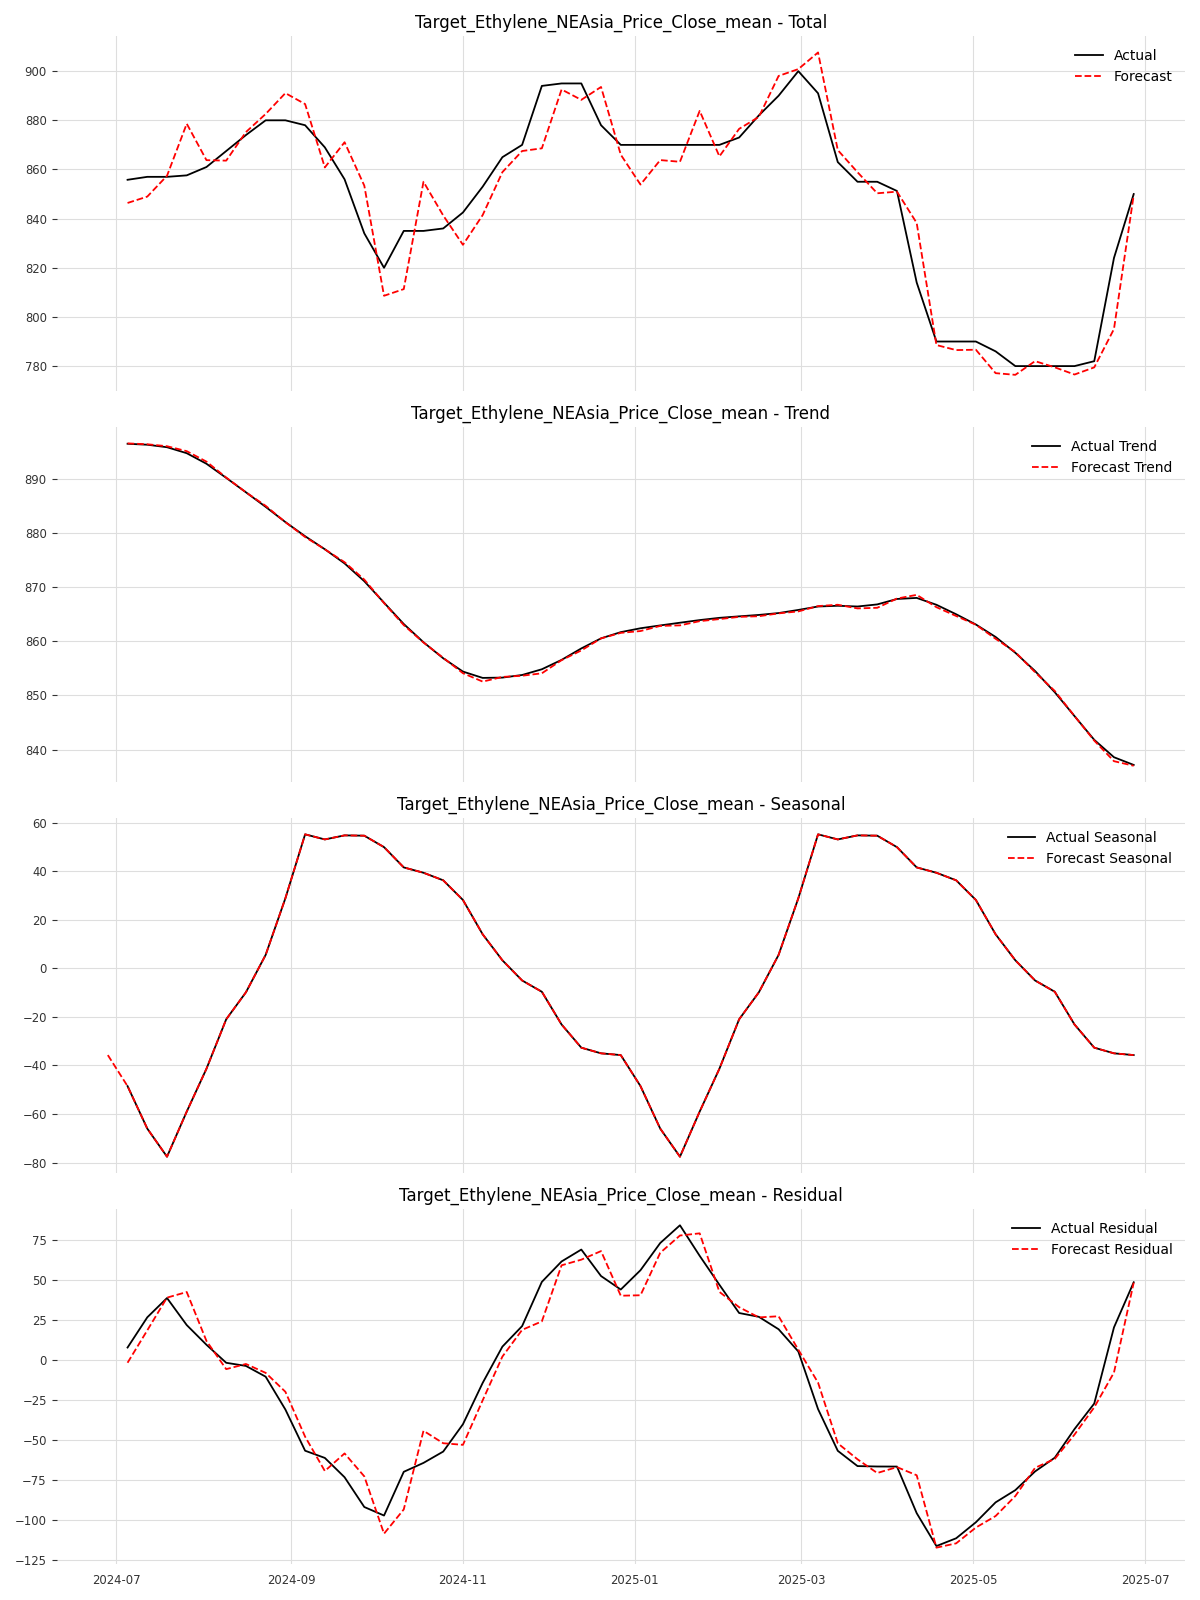
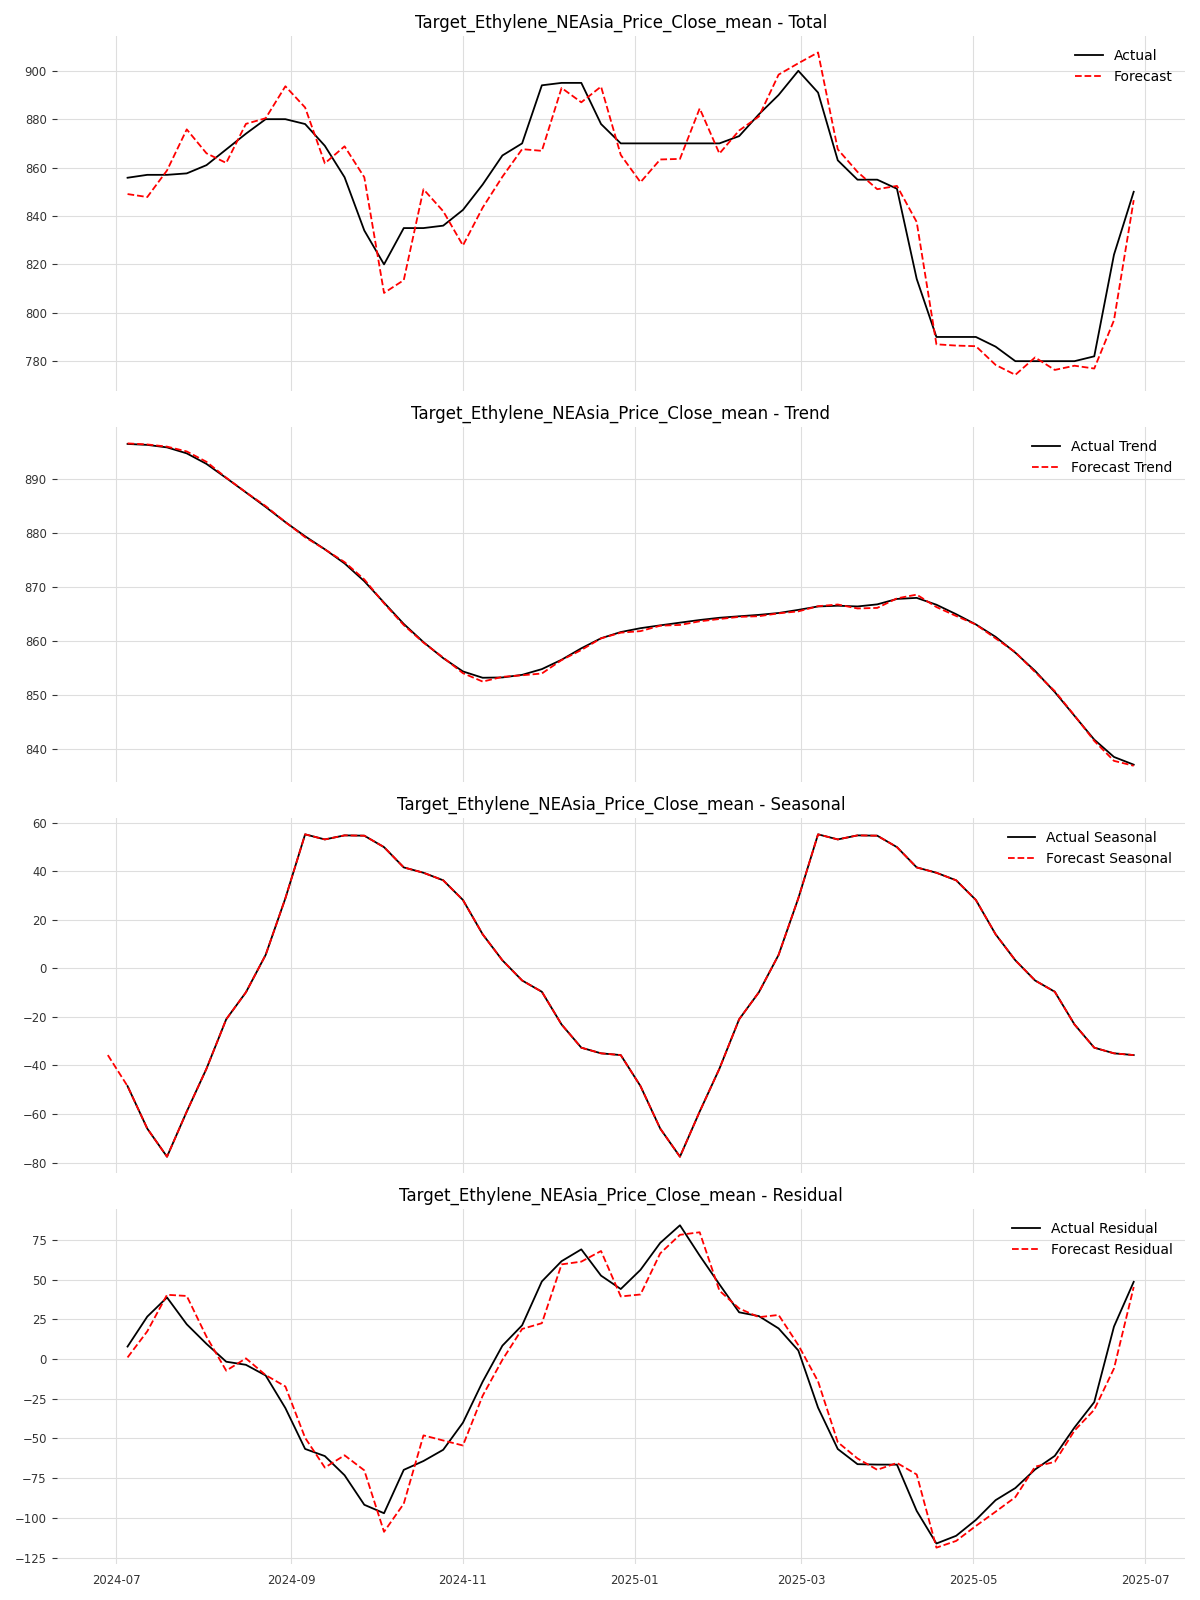
Revert to two steps before (best result of VARIMA)

diff --git a/varima_forecasting.py b/varima_forecasting.py
@@ -13,7 +13,7 @@ import seaborn as sns
 
 # Darts imports
 from darts import TimeSeries
-from darts.models import VARIMA, Theta, NaiveSeasonal
+from darts.models import VARIMA, NaiveSeasonal
 from darts.metrics import smape, mase, mae, mse, rmse
 from darts.dataprocessing.transformers import Scaler, Diff, MissingValuesFiller
 from darts.utils.statistics import check_seasonality
@@ -27,7 +27,7 @@ warnings.filterwarnings("ignore")
 # Constants
 DATA_DIR = Path("Price_Daily.csv")
 OUTPUT_DIR = Path("output/varima_run")
-TARGETS = ["Target_Ethylene_NEAsia_Price_Close", "Target_Naphtha_Price_Close", "Upstream_Crudeoil_WTI_Price_Close", "Upstream_Crudeoil_Brent_Price_Close", "Upstream_Crudeoil_Dubai_Price_Close"]
+TARGETS = ["Target_Naphtha_Price_Close", "Target_Ethylene_NEAsia_Price_Close"]
 DATE_RANGE = ["2021-02-05", "2025-06-30"]
 TEST_SPLIT_DATE = "2024-07-01"
 SEASONAL_PERIOD = 26
@@ -210,10 +210,14 @@ class ModelTraining:
         train_cov = diff_transformer.fit_transform(train_multi)
         full_cov = diff_transformer.transform(full_multi)
 
+        # Shift covariates
+        train_future_cov = train_cov.shift(1)
+        full_future_cov = full_cov.shift(1)
+
         # Fill missing values
         missing_filler = MissingValuesFiller(fill=0.0)
-        train_future_cov = missing_filler.transform(train_cov.shift(1))
-        full_future_cov = missing_filler.transform(full_cov.shift(1))
+        train_future_cov = missing_filler.transform(train_future_cov)
+        full_future_cov = missing_filler.transform(full_future_cov)
 
         # Align target and covariates to intersection (fixes start date mismatch due to shift/diff)
         train_multi = train_multi.slice_intersect(train_future_cov)
@@ -248,30 +252,6 @@ class ModelTraining:
         )
         
         return pred_multi
-        
-
-    @staticmethod
-    def forecast_trend(
-        series: pd.Series, 
-        train_split_date: Any
-    ) -> TimeSeries:
-        """
-        Fits a Theta model to extrapolate the trend. 
-        """
-        full_trend_ts = TimeSeries.from_series(series)
-        train_trend_ts = full_trend_ts.drop_after(train_split_date)
-        
-        # Theta(2) is equivalent to linear extrapolation
-        model = Theta(theta=2, season_mode=SeasonalityMode.NONE) 
-        
-        return model.historical_forecasts(
-            series=full_trend_ts,
-            start=len(train_trend_ts),
-            forecast_horizon=1,
-            stride=1,
-            retrain=True,
-            verbose=False
-        )
 
     @staticmethod
     def forecast_seasonal(
@@ -458,36 +438,42 @@ def run_varima_pipeline():
     
     # 3. Modeling & Forecasting
 
+    # Fit VARIMA models
+    res_pred_multi = ModelTraining.fit_and_pred_varima(
+        components, 
+        train_index=train_df.index, 
+        target_cols=targets,
+        comp_name='residual',
+        param_grid={
+            'p': [1, 2, 3],
+            'd': [0],
+            'q': [0, 1, 2],
+            'trend': ['n', 'c']
+        }
+    )
+
+    trend_pred_multi = ModelTraining.fit_and_pred_varima(
+        components, 
+        train_index=train_df.index, 
+        target_cols=targets,
+        comp_name='trend',
+        param_grid={
+            'p': [1, 2, 3],
+            'd': [1],
+            'q': [6, 7, 8],
+            'trend': ['c']
+        }
+    )
+
     # Reconstruct predictions
-    for i, target_cols in enumerate([targets[:2], targets[1:]]):
-        target = target_cols[0]
-
+    for i, target in enumerate(targets):
+        if target not in components:
+            continue
+            
         # 1. Component Predictions
-        res_pred = ModelTraining.fit_and_pred_varima(
-            components, 
-            train_index=train_df.index, 
-            target_cols=target_cols,
-            comp_name='residual',
-            param_grid={
-                'p': [1, 2, 3],
-                'd': [0],
-                'q': [0, 1, 2],
-                'trend': ['n', 'c']
-            }
-        ).univariate_component(0)
+        res_pred = res_pred_multi.univariate_component(i)
 
-        trend_pred = ModelTraining.fit_and_pred_varima(
-            components, 
-            train_index=train_df.index, 
-            target_cols=target_cols,
-            comp_name='trend',
-            param_grid={
-                'p': [1, 2, 3],
-                'd': [1],
-                'q': [6, 7, 8],
-                'trend': ['c']
-            }
-        ).univariate_component(0)
+        trend_pred = trend_pred_multi.univariate_component(i)
         
         seasonal_pred = ModelTraining.forecast_seasonal(
             series=components[target]['seasonal'],
